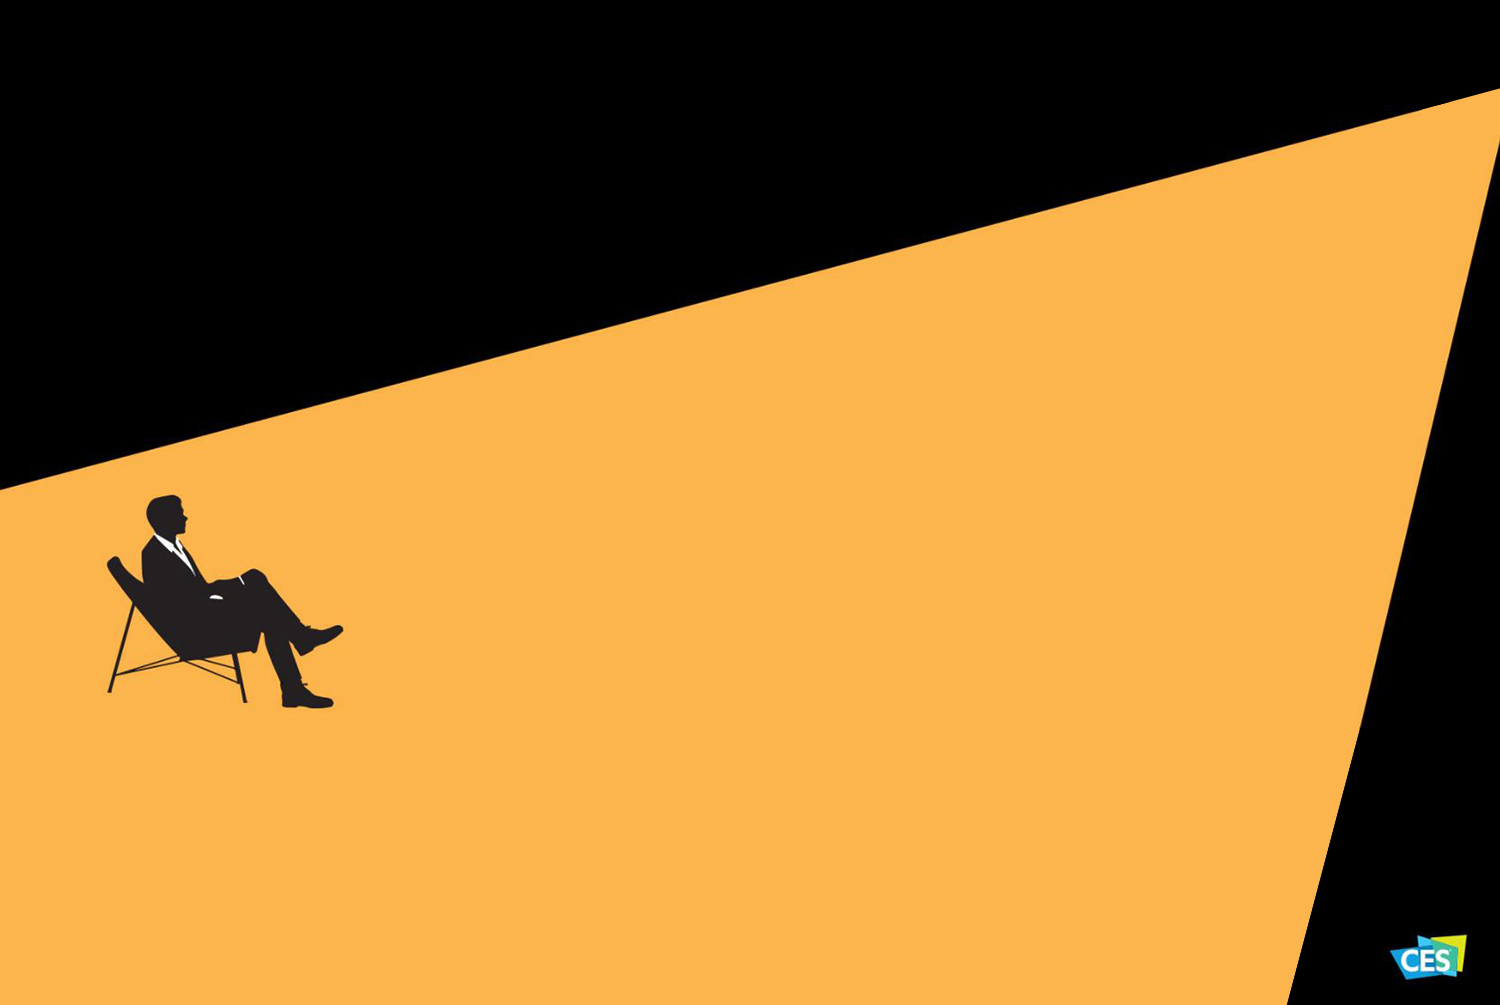
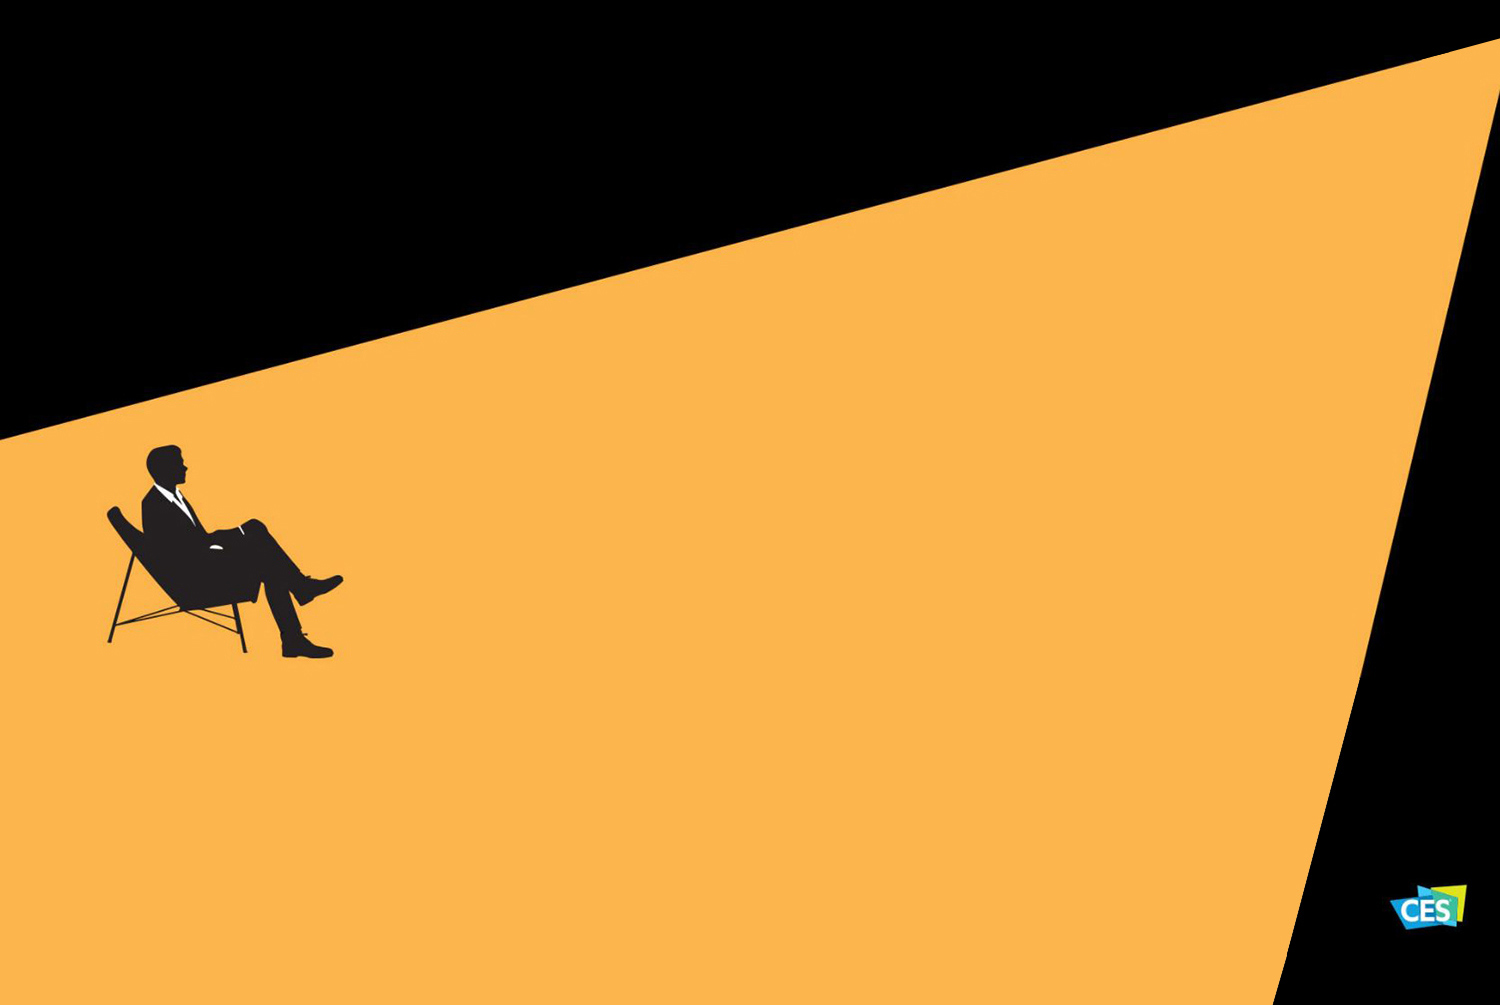
up

diff --git a/20210111_company/css/pc.css b/20210111_company/css/pc.css
@@ -10,12 +10,15 @@ header#main_header{height: 1950px;position: relative; _background: pink; margin-
 }
 
 #header_top>h1{float: left; height: 80px;}
-#header_top>h1>a{float: left; padding: 15px; }
-#header_top>h1>a>img{width: 150px;}
+#header_top>h1>a{float: left; padding: 15px 120px; }
+#header_top>h1>a>img{width: 140px;}
 
-#main_menu{float: right;}
-#main_menu li{float: left; height: 80px;}
-#main_menu li a{display: block; line-height: 80px; padding:0 30px; font-weight:bold; font-size:14px; }
+#main_menu{float: right; padding-right: 110px;}
+#main_menu li{float: left; height: 80px; }
+#main_menu li a{
+	display: block; line-height: 80px; 
+	padding:0 30px; font-weight:bold; font-size:14px; 
+}
 .toggleMenu{display: none;}
 
 
@@ -29,7 +32,7 @@ header#main_header{height: 1950px;position: relative; _background: pink; margin-
 }
 .sliderWrap .slider_1st .slider_txt1{
 	position: absolute; color: white;
-	top: 25%; left: 120px;
+	top: 30%; left: 140px;
 }
 .slider_txt1 h3{font-size:48px; padding: 16px 0;}
 /*.sliderWrap .slider_txt h3:after{
@@ -48,7 +51,7 @@ header#main_header{height: 1950px;position: relative; _background: pink; margin-
 	text-align: center; padding: 10px 20px;
 	border: 1px solid #fff; background: #fff;
 	border-radius:20px; color: #25262a;
-	font-size: 14px;font-weight:bold;
+	font-size: 12px;font-weight:bold;
 }
 .slider_txt1 .txt1Btn2:hover{background-color:#000; border: 1px solid #000; color: #fff;}
 .slider_txt2 .txt1Btn3:hover{background-color:#fff; border: 3px solid #000; color: #000;}
@@ -57,7 +60,6 @@ header#main_header{height: 1950px;position: relative; _background: pink; margin-
 .sliderWrap .slider_2st .slider_txt2{
 	position: absolute; color: black;
 	top: 25%; left: 120px; 
-	letter-spacing: -2px;
 }
 .slider_txt2 h3{font-size:48px; padding: 16px 0; letter-spacing: -5px;}
 .slider_txt2 .txt1Btn3{
@@ -65,7 +67,25 @@ header#main_header{height: 1950px;position: relative; _background: pink; margin-
 	text-align: center; padding: 10px 20px;
 	border: 1px solid #000; background: #000;
 	border-radius:20px; color: #fff;
-	font-size: 14px;font-weight:bold;
+	font-size: 12px;font-weight:bold;
+}
+
+/*.sliderWrap .slider_3st .slider_txt3{
+	position: absolute; color: black;
+}*/
+.slider_txt3 h3{
+	position: absolute;font-size:82px; 
+	top: 140px; font-weight:bold; left: 120px;}
+.slider_txt3 p{
+	font-size:58px; right: 170px; top: 310px;
+	font-weight:bold; position: absolute;}
+.slider_txt3 .txt1Btn4{
+	right: 645px; top: 415px;
+	position: absolute;
+	text-align: center; padding: 10px 20px;
+	border: 1px solid #000; background: #000;
+	border-radius:20px; color: #fff;
+	font-size: 12px;font-weight:bold;
 }
 
 
@@ -78,6 +98,12 @@ header#main_header{height: 1950px;position: relative; _background: pink; margin-
 }
 .sliderWrap .slider_2st{
 	background-image: url(../images/mainimg02.jpg);
+	background-repeat: no-repeat;
+	background-position: center;
+	background-size: cover;
+}
+.sliderWrap .slider_3st{
+	background-image: url(../images/mainimg03.jpg);
 	background-repeat: no-repeat;
 	background-position: center;
 	background-size: cover;

diff --git a/20210111_company/index.html b/20210111_company/index.html
@@ -10,8 +10,13 @@
 	<link rel="stylesheet" href="css/reset.css">
 	<link rel="stylesheet" href="css/style.css">
 	<link rel="stylesheet" href="../css/all.css">
+	<link rel="stylesheet" href="../css/animate.css">
 	<script src="js/jquery-3.1.1.min.js"></script>
 	<script src="js/jquery.bxslider.js"></script>
+	<script src="js/wow.js"></script>
+	<script>
+		new WOW().init();
+	</script>
 	<style>
 		body{font-family: 'Gothic A1', sans-serif;}
 	</style>
@@ -61,7 +66,6 @@
 		<div class="sliderWrap">
 			<ul class="slider">
 				<li class="slider_1st"> <!-- bxslider por 자동으로 됨 -->
-					<!-- <img src="images/mainimg01.jpg" alt=""> -->
 					<div class="slider_txt1">
 						<h3>The First Look 2021</h3>
 						<p>새로운 삼성 TV를 지금 바로 만나보세요</p>
@@ -70,7 +74,6 @@
 					</div>
 				</li>
 				<li class="slider_2st">
-					<!-- <img src="images/mainimg02.jpg" alt=""> -->
 					<div class="slider_txt2">
 						<h3>당신의 모든 순간을</br>빛나고 특별하게</h3>
 						<p>Galaxy Unpacked | 2021년1월15일 00시</br>삼성닷컴에서 생방송으로 만나보세요</p>
@@ -78,10 +81,10 @@
 					</div>
 				</li>
 				<li class="slider_3st">
-					<img src="images/mainimg03.jpg" alt="">
 					<div class="slider_txt3">
-						<h3>Lorem, ipsum dolor sit.</h3>
-						<p>Lorem, ipsum dolor sit amet consectetur adipisicing, elit. Impedit, voluptatibus.</p>
+						<h3 class="wow flipInX" style="color: white;"><strong>Better Normal</br>for All</strong></h3>
+						<p>Samsung @ CES 2021</p>
+						<a href="#" class="txt1Btn4">더 알아보기</a> 
 					</div>
 				</li>
 				<li class="slider_4st">
